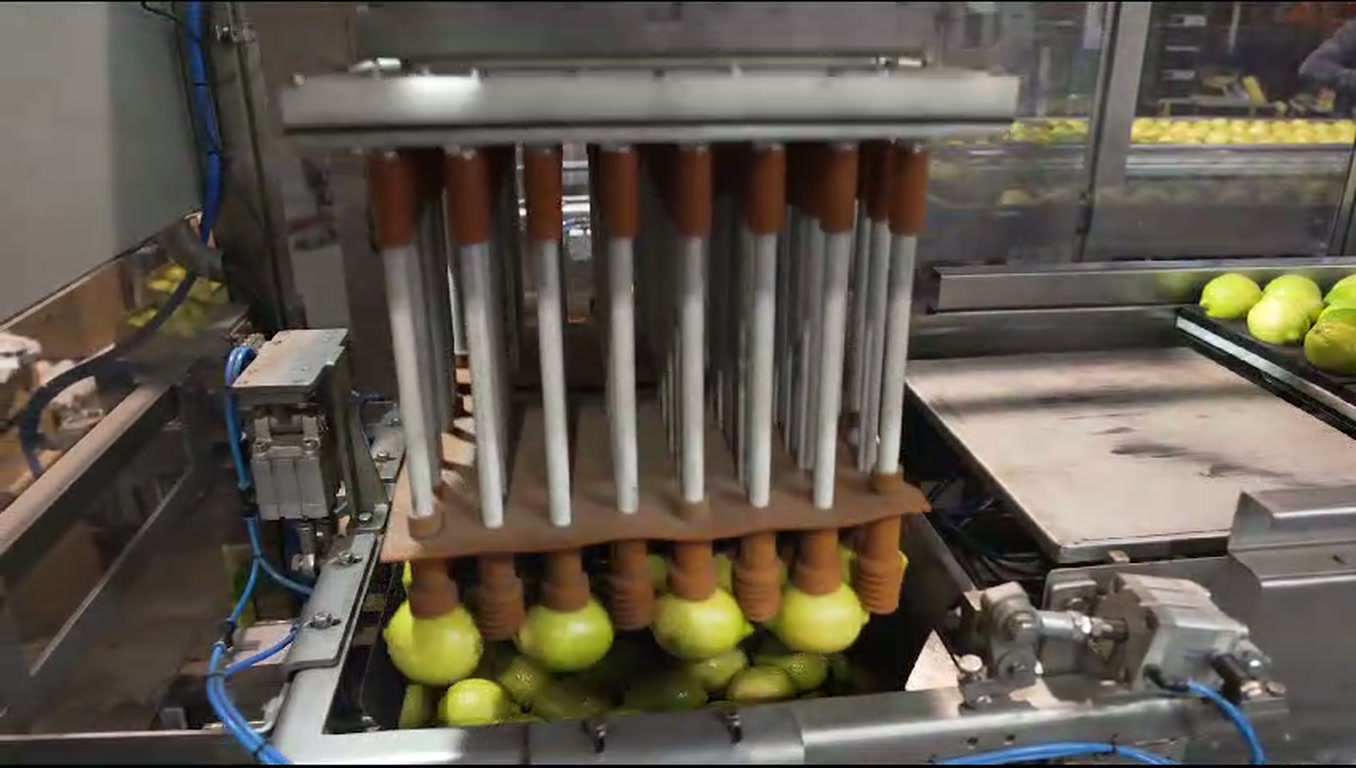
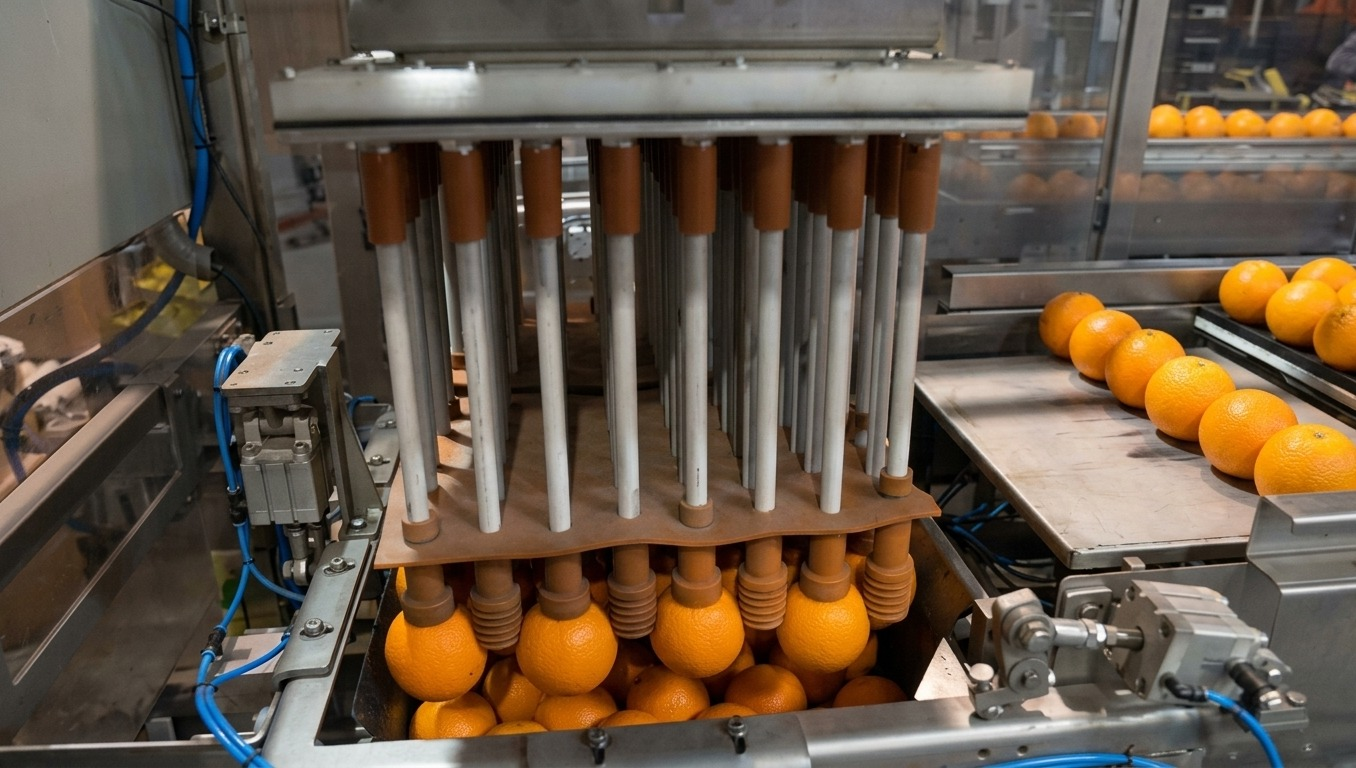
Substitui foto do card "Laranja" por imagem de melhor qualidade
Imagem fornecida pelo usuário (nota: gerada por IA) mostrando o
cabeçote telescópico captando laranjas, usada na página Aplicações e
na home. Cache-bust (?v=2).

diff --git a/aplicacoes/index.html b/aplicacoes/index.html
@@ -57,7 +57,7 @@
           <div class="card-body"><h3>Maçã / pera</h3><p>Captação por ventosas sem impacto na casca, mantendo o valor comercial da fruta.</p></div>
         </div>
         <div class="card reveal">
-          <div class="card-img"><img src="/assets/img/aplicacao-laranja.jpg" alt="Laranjas sendo captadas pelo cabeçote telescópico" loading="lazy"></div>
+          <div class="card-img"><img src="/assets/img/aplicacao-laranja.jpg?v=2" alt="Laranjas sendo captadas pelo cabeçote telescópico" loading="lazy"></div>
           <div class="card-body"><h3>Laranja</h3><p>Mesma linha, receita de calibre diferente — sem troca de equipamento.</p></div>
         </div>
         <div class="card reveal">

diff --git a/index.html b/index.html
@@ -177,7 +177,7 @@
           </div>
         </div>
         <div class="bento-card">
-          <div class="bento-graphic"><img src="/assets/img/aplicacao-laranja.jpg" alt="Laranjas sendo captadas pelo cabeçote telescópico" loading="lazy"></div>
+          <div class="bento-graphic"><img src="/assets/img/aplicacao-laranja.jpg?v=2" alt="Laranjas sendo captadas pelo cabeçote telescópico" loading="lazy"></div>
           <div class="bento-body">
             <span class="bento-eyebrow">Fruta</span>
             <h3>Laranja</h3>
